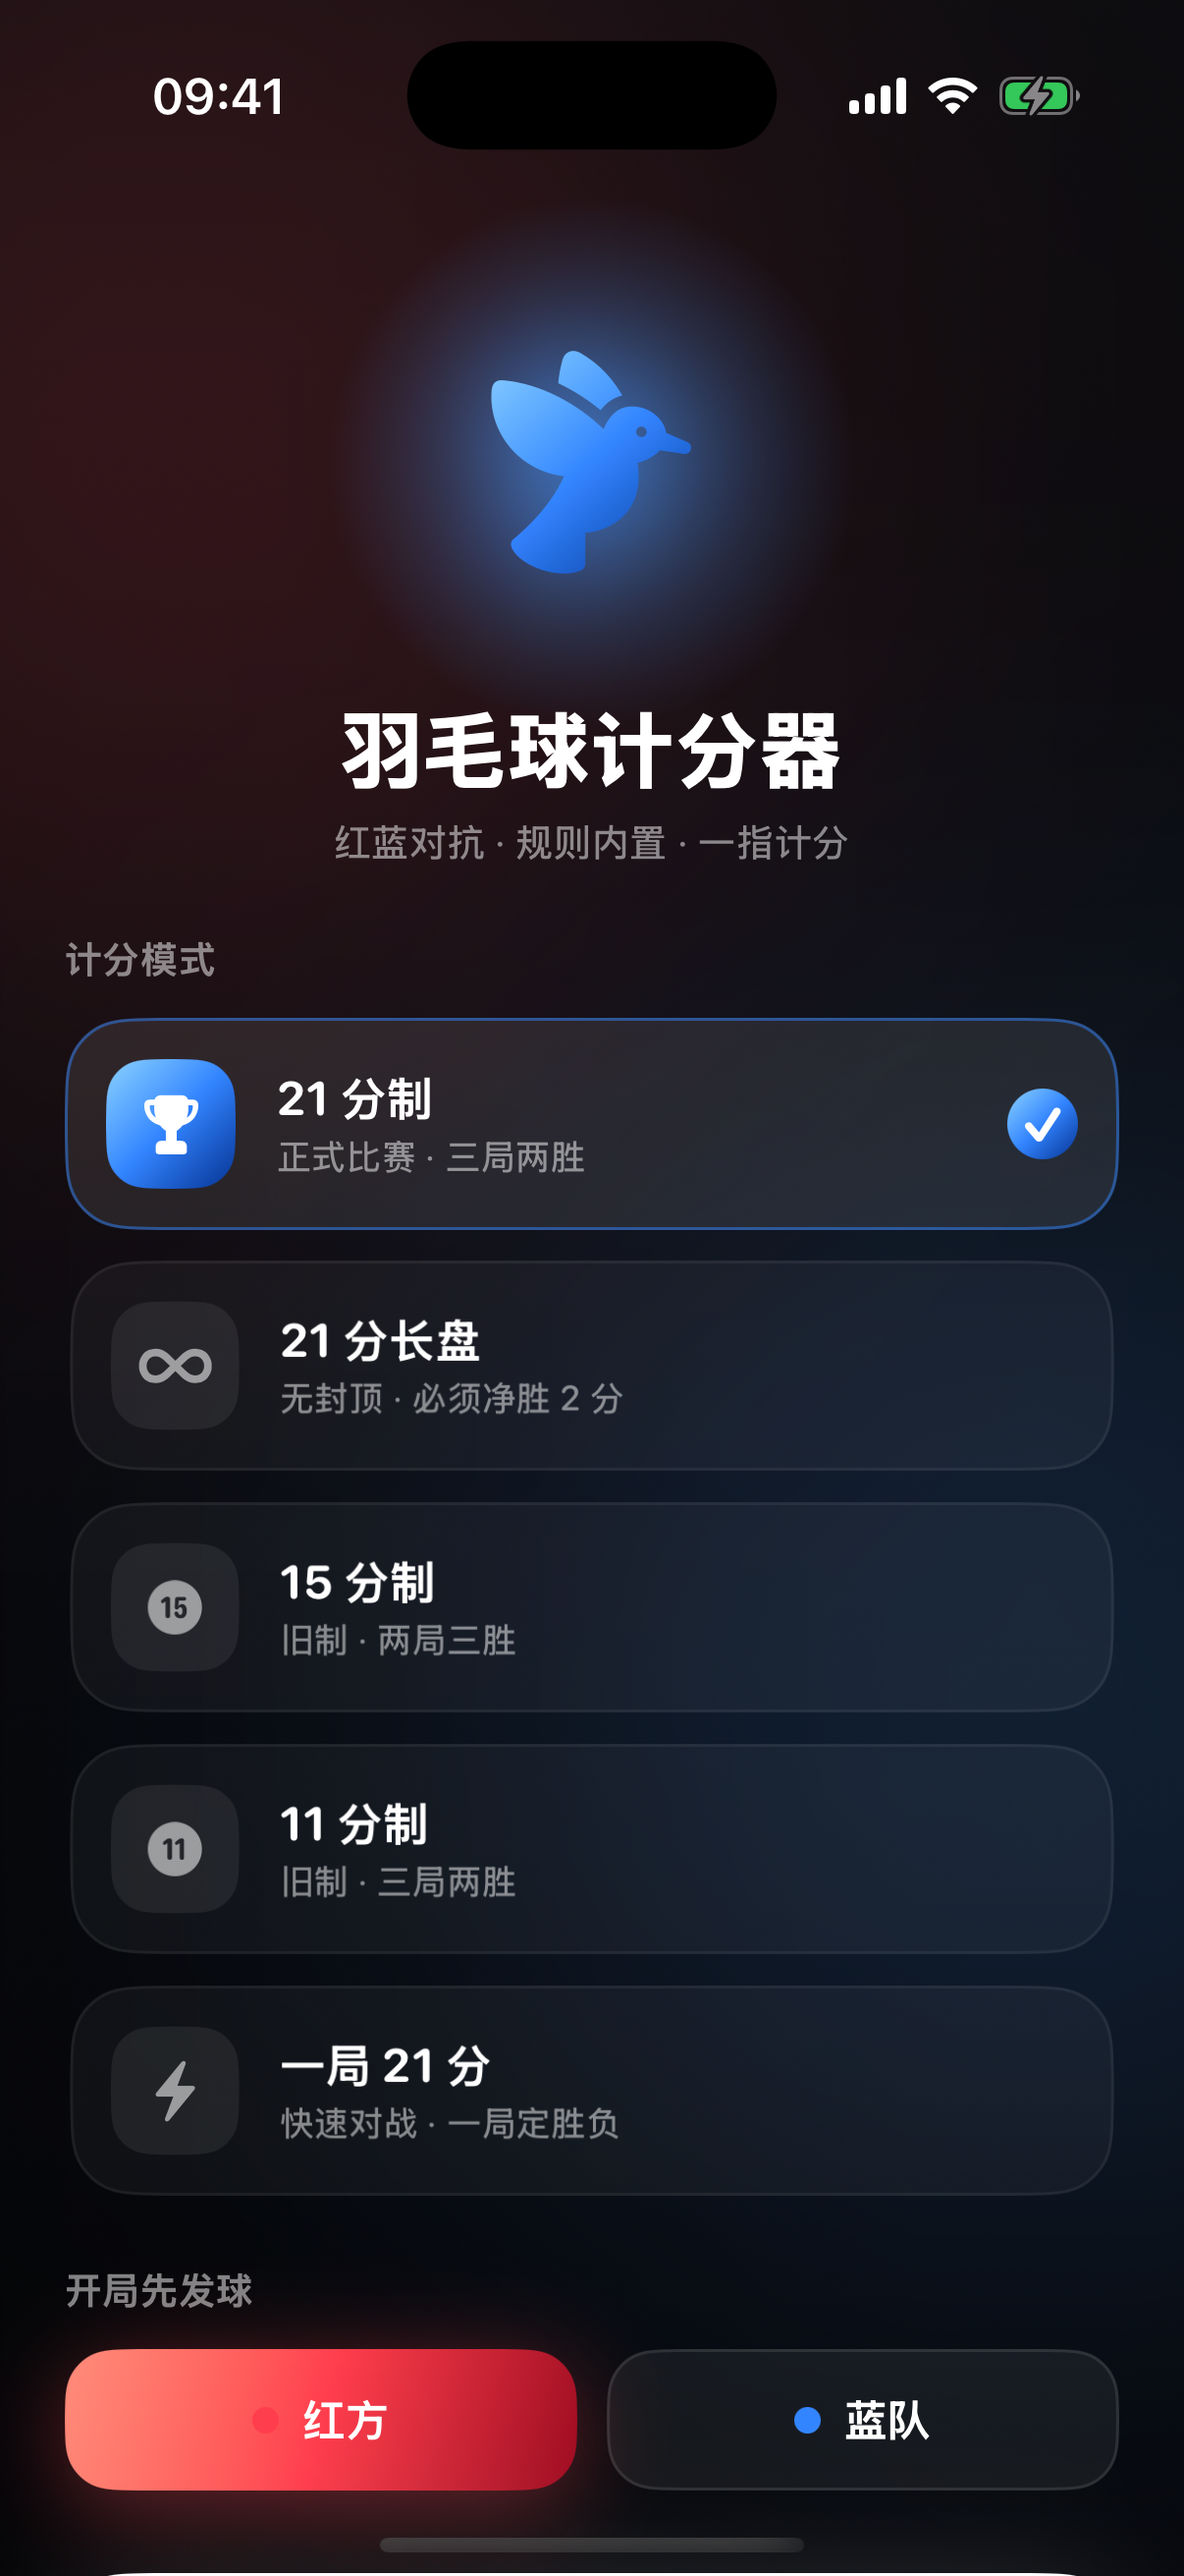
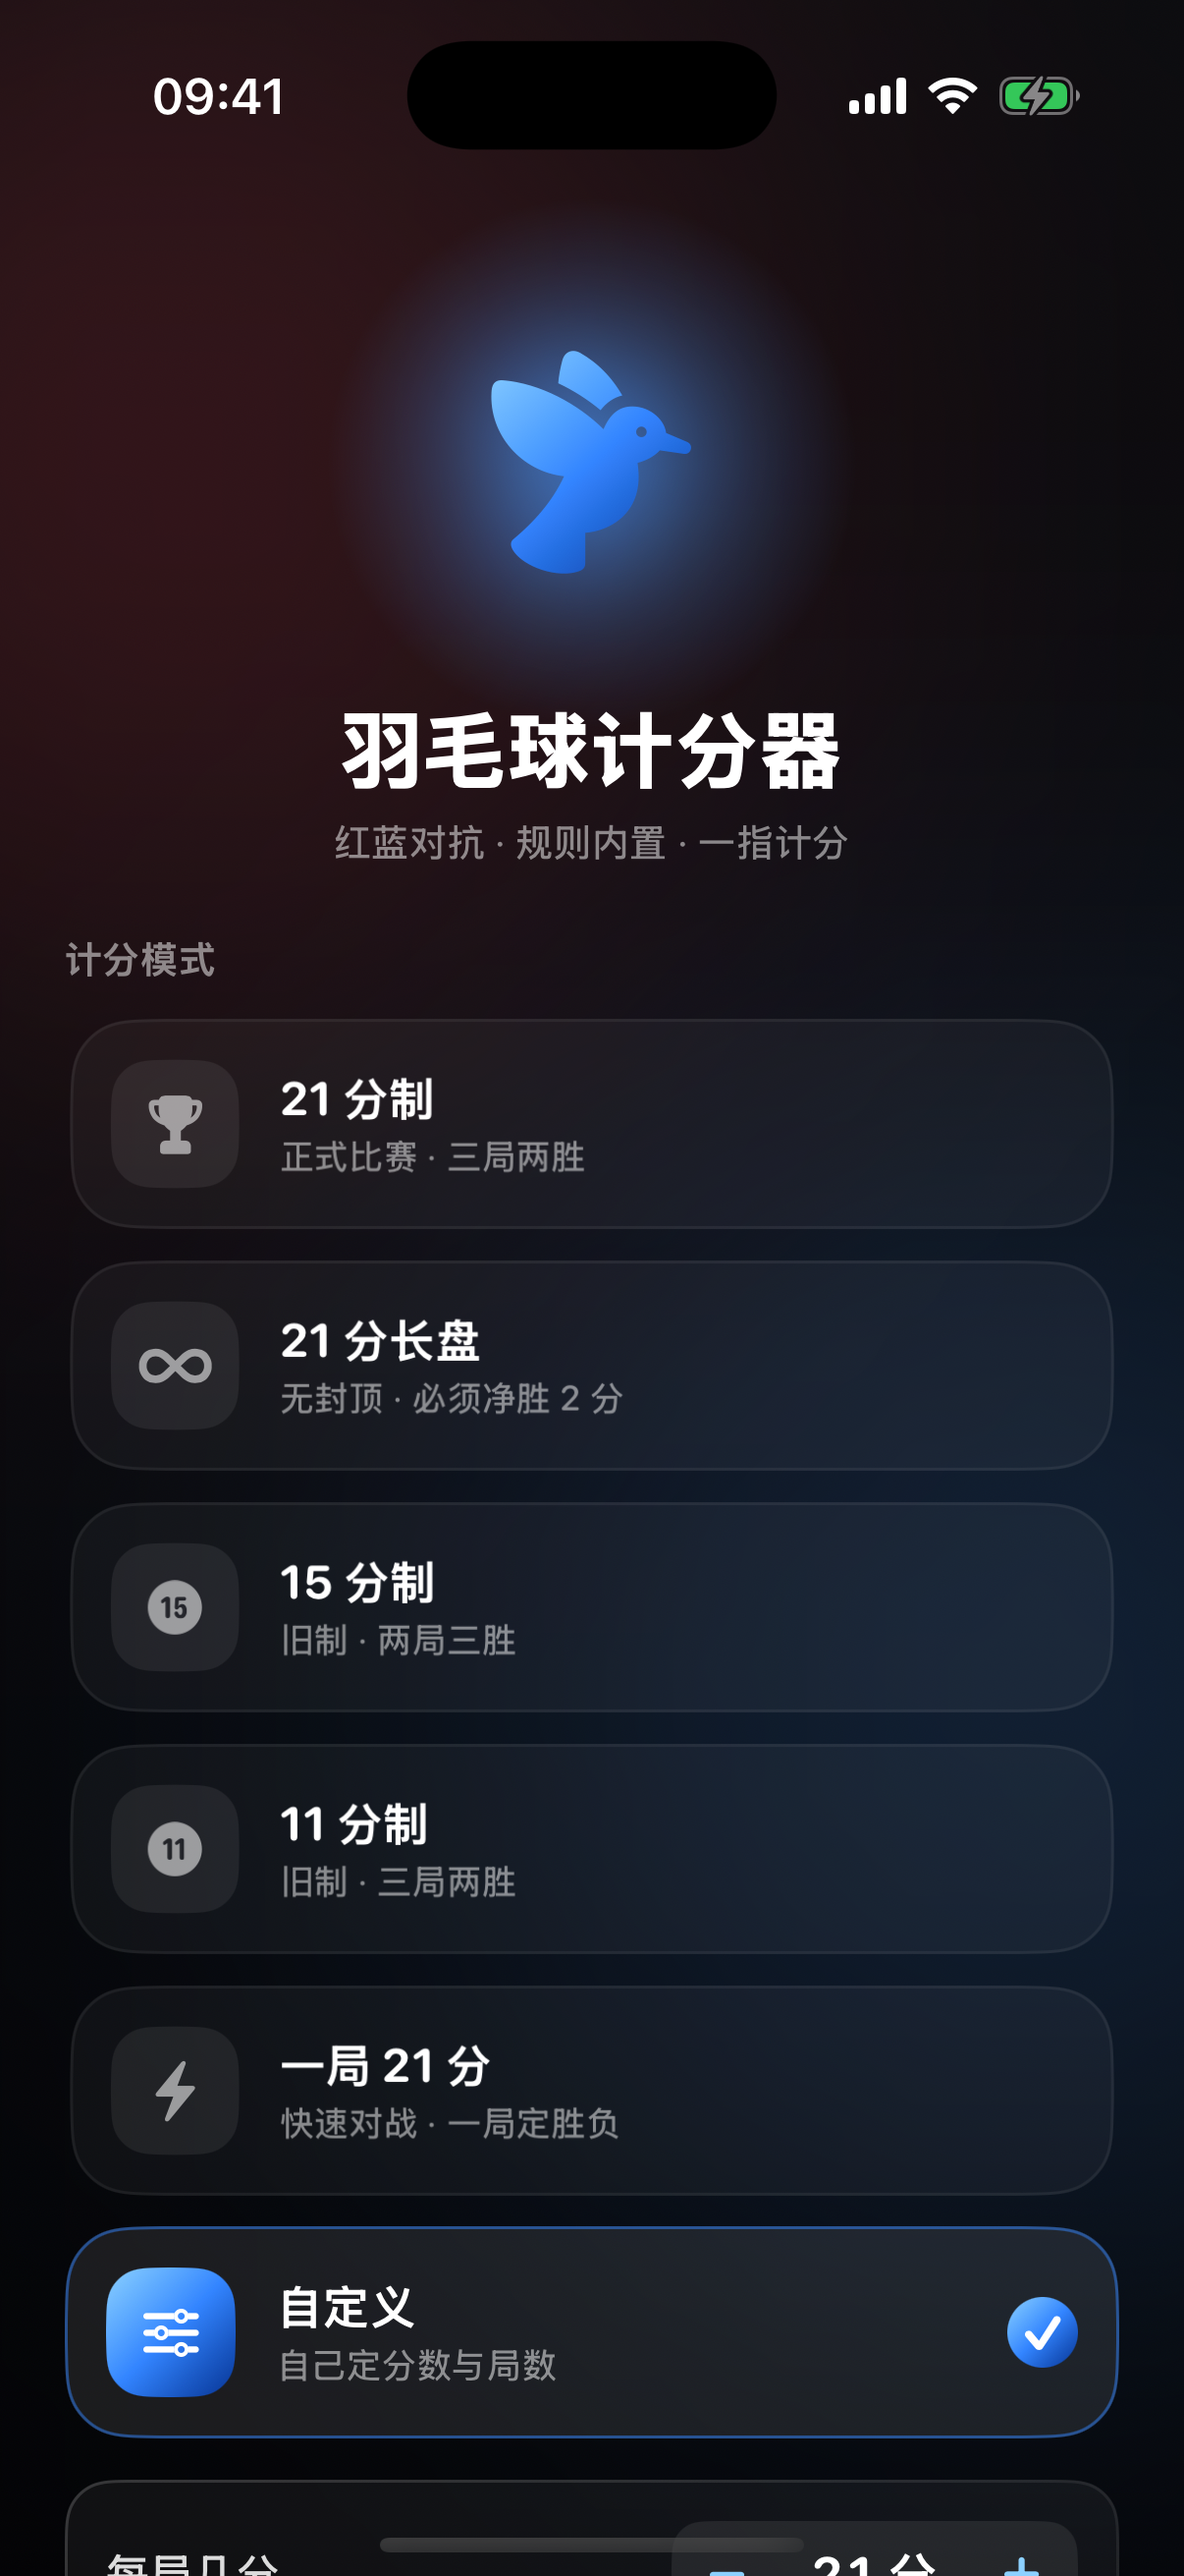
双打名字显示修好 + 补实拍截图
- MatchView 之前直接读 state.redName，双打只显示第一个人；
  改成走 state.name(of:)，是「林丹 / 谢杏芳」
- 发球徽章在双打时显示具体谁发球（谢杏芳 发球 · 左区），单打不变
- 补齐 6 张模拟器实拍进 README

顺带：之前往 DebugPreview 里加 custom/customMatch/doubles 三个分支时，
锚点不存在导致替换静默失败，脚本还打了 ✅。这次加了断言重做。

diff --git a/BadmintonScore/HomeView.swift b/BadmintonScore/HomeView.swift
@@ -103,6 +103,32 @@ struct DebugPreview {
             playGame(store, red: 30, blue: 29)
             return DebugPreview(store: store, showsMatch: true)
 
+        case "custom":
+            // 首页停在「自定义」，并预置一套 11 分 / 16 分封顶 / 三局的规则
+            UserDefaults.standard.set(ScoringMode.custom.rawValue, forKey: "badminton.selectedMode")
+            let customRules = BadmintonRules.custom(points: 11, capBonus: 5, maxGames: 3)
+            return DebugPreview(
+                store: MatchStore(state: MatchState(mode: .custom, customRules: customRules)),
+                showsMatch: false
+            )
+
+        case "customMatch":
+            // 自定义赛制打到 10:8 —— 再得一分到 11 分就该结束这一局
+            let customRules = BadmintonRules.custom(points: 11, capBonus: 5, maxGames: 3)
+            var state = MatchState(mode: .custom, redName: "红方", blueName: "蓝方", customRules: customRules)
+            state = play(state, red: 10, blue: 8, server: .red)
+            return DebugPreview(store: MatchStore(state: state), showsMatch: true)
+
+        case "doubles":
+            // 双打：林丹/谢杏芳 vs 李宗伟/黄妙珠
+            var state = MatchState(mode: .bwf21, redName: "林丹", blueName: "李宗伟")
+            state.format = .doubles
+            state.setPlayers(["林丹", "谢杏芳"], for: .red)
+            state.setPlayers(["李宗伟", "黄妙珠"], for: .blue)
+            state = play(state, red: 17, blue: 15, server: .red)
+            state.redServeIndex = 1          // 轮到谢杏芳发球
+            return DebugPreview(store: MatchStore(state: state), showsMatch: true)
+
         case "legacy15":
             var state = MatchState(mode: .traditional15, redName: "A 队", blueName: "B 队")
             state = play(state, red: 14, blue: 13, server: .blue)

diff --git a/BadmintonScore/MatchView.swift b/BadmintonScore/MatchView.swift
@@ -31,7 +31,10 @@ struct MatchView: View {
                 topBar
                 ScorePanel(
                     side: .red,
-                    name: state.redName,
+                    name: state.name(of: .red),
+                    servingName: state.format == .doubles && state.server == .red
+                        ? state.players(of: .red)[state.serveIndex(of: .red)]
+                        : nil,
                     points: state.redPoints,
                     games: state.redGames,
                     isServing: state.server == .red,
@@ -48,7 +51,10 @@ struct MatchView: View {
                 )
                 ScorePanel(
                     side: .blue,
-                    name: state.blueName,
+                    name: state.name(of: .blue),
+                    servingName: state.format == .doubles && state.server == .blue
+                        ? state.players(of: .blue)[state.serveIndex(of: .blue)]
+                        : nil,
                     points: state.bluePoints,
                     games: state.blueGames,
                     isServing: state.server == .blue,
@@ -261,6 +267,8 @@ struct MatchView: View {
 struct ScorePanel: View {
     var side: Side
     var name: String
+    /// 双打时这一方具体谁在发球；单打传 nil。
+    var servingName: String?
     var points: Int
     var games: Int
     var isServing: Bool
@@ -378,7 +386,7 @@ struct ScorePanel: View {
             Spacer()
 
             if isServing {
-                ServeIndicator(side: side, box: serveBox)
+                ServeIndicator(side: side, box: serveBox, servingName: servingName)
                     .transition(.scale(scale: 0.8).combined(with: .opacity))
             }
         }

diff --git a/BadmintonScore/Components.swift b/BadmintonScore/Components.swift
@@ -96,6 +96,8 @@ struct CourtGlow: View {
 struct ServeIndicator: View {
     var side: Side
     var box: String
+    /// 双打时谁在发球；单打传 nil，徽章只显示发球区。
+    var servingName: String?
 
     @State private var float = false
 
@@ -106,7 +108,7 @@ struct ServeIndicator: View {
                 .offset(y: float ? -2.5 : 1.5)
                 .animation(.easeInOut(duration: 1.05).repeatForever(autoreverses: true), value: float)
 
-            Text("发球 · \(box)")
+            Text(servingName.map { "\($0) 发球 · \(box)" } ?? "发球 · \(box)")
                 .font(Theme.label(12, weight: .bold))
                 .contentTransition(.opacity)
         }

diff --git a/README.md b/README.md
@@ -4,7 +4,13 @@
 
 iPhone 应用，纯 SwiftUI。**不联网、不要账号、不收集任何数据。**
 
-![首页](Screenshots/01-home.png)
+| 首页 | 计分 | 双打 |
+| :---: | :---: | :---: |
+| ![首页](Screenshots/01-home.png) | ![计分](Screenshots/02-match.png) | ![双打](Screenshots/03-doubles.png) |
+
+| 自定义规则 | 自定义赛制对局 | 胜出画面 |
+| :---: | :---: | :---: |
+| ![自定义](Screenshots/04-custom.png) | ![自定义对局](Screenshots/05-custom-match.png) | ![胜出](Screenshots/06-win.png) |
 
 ## 功能
 
